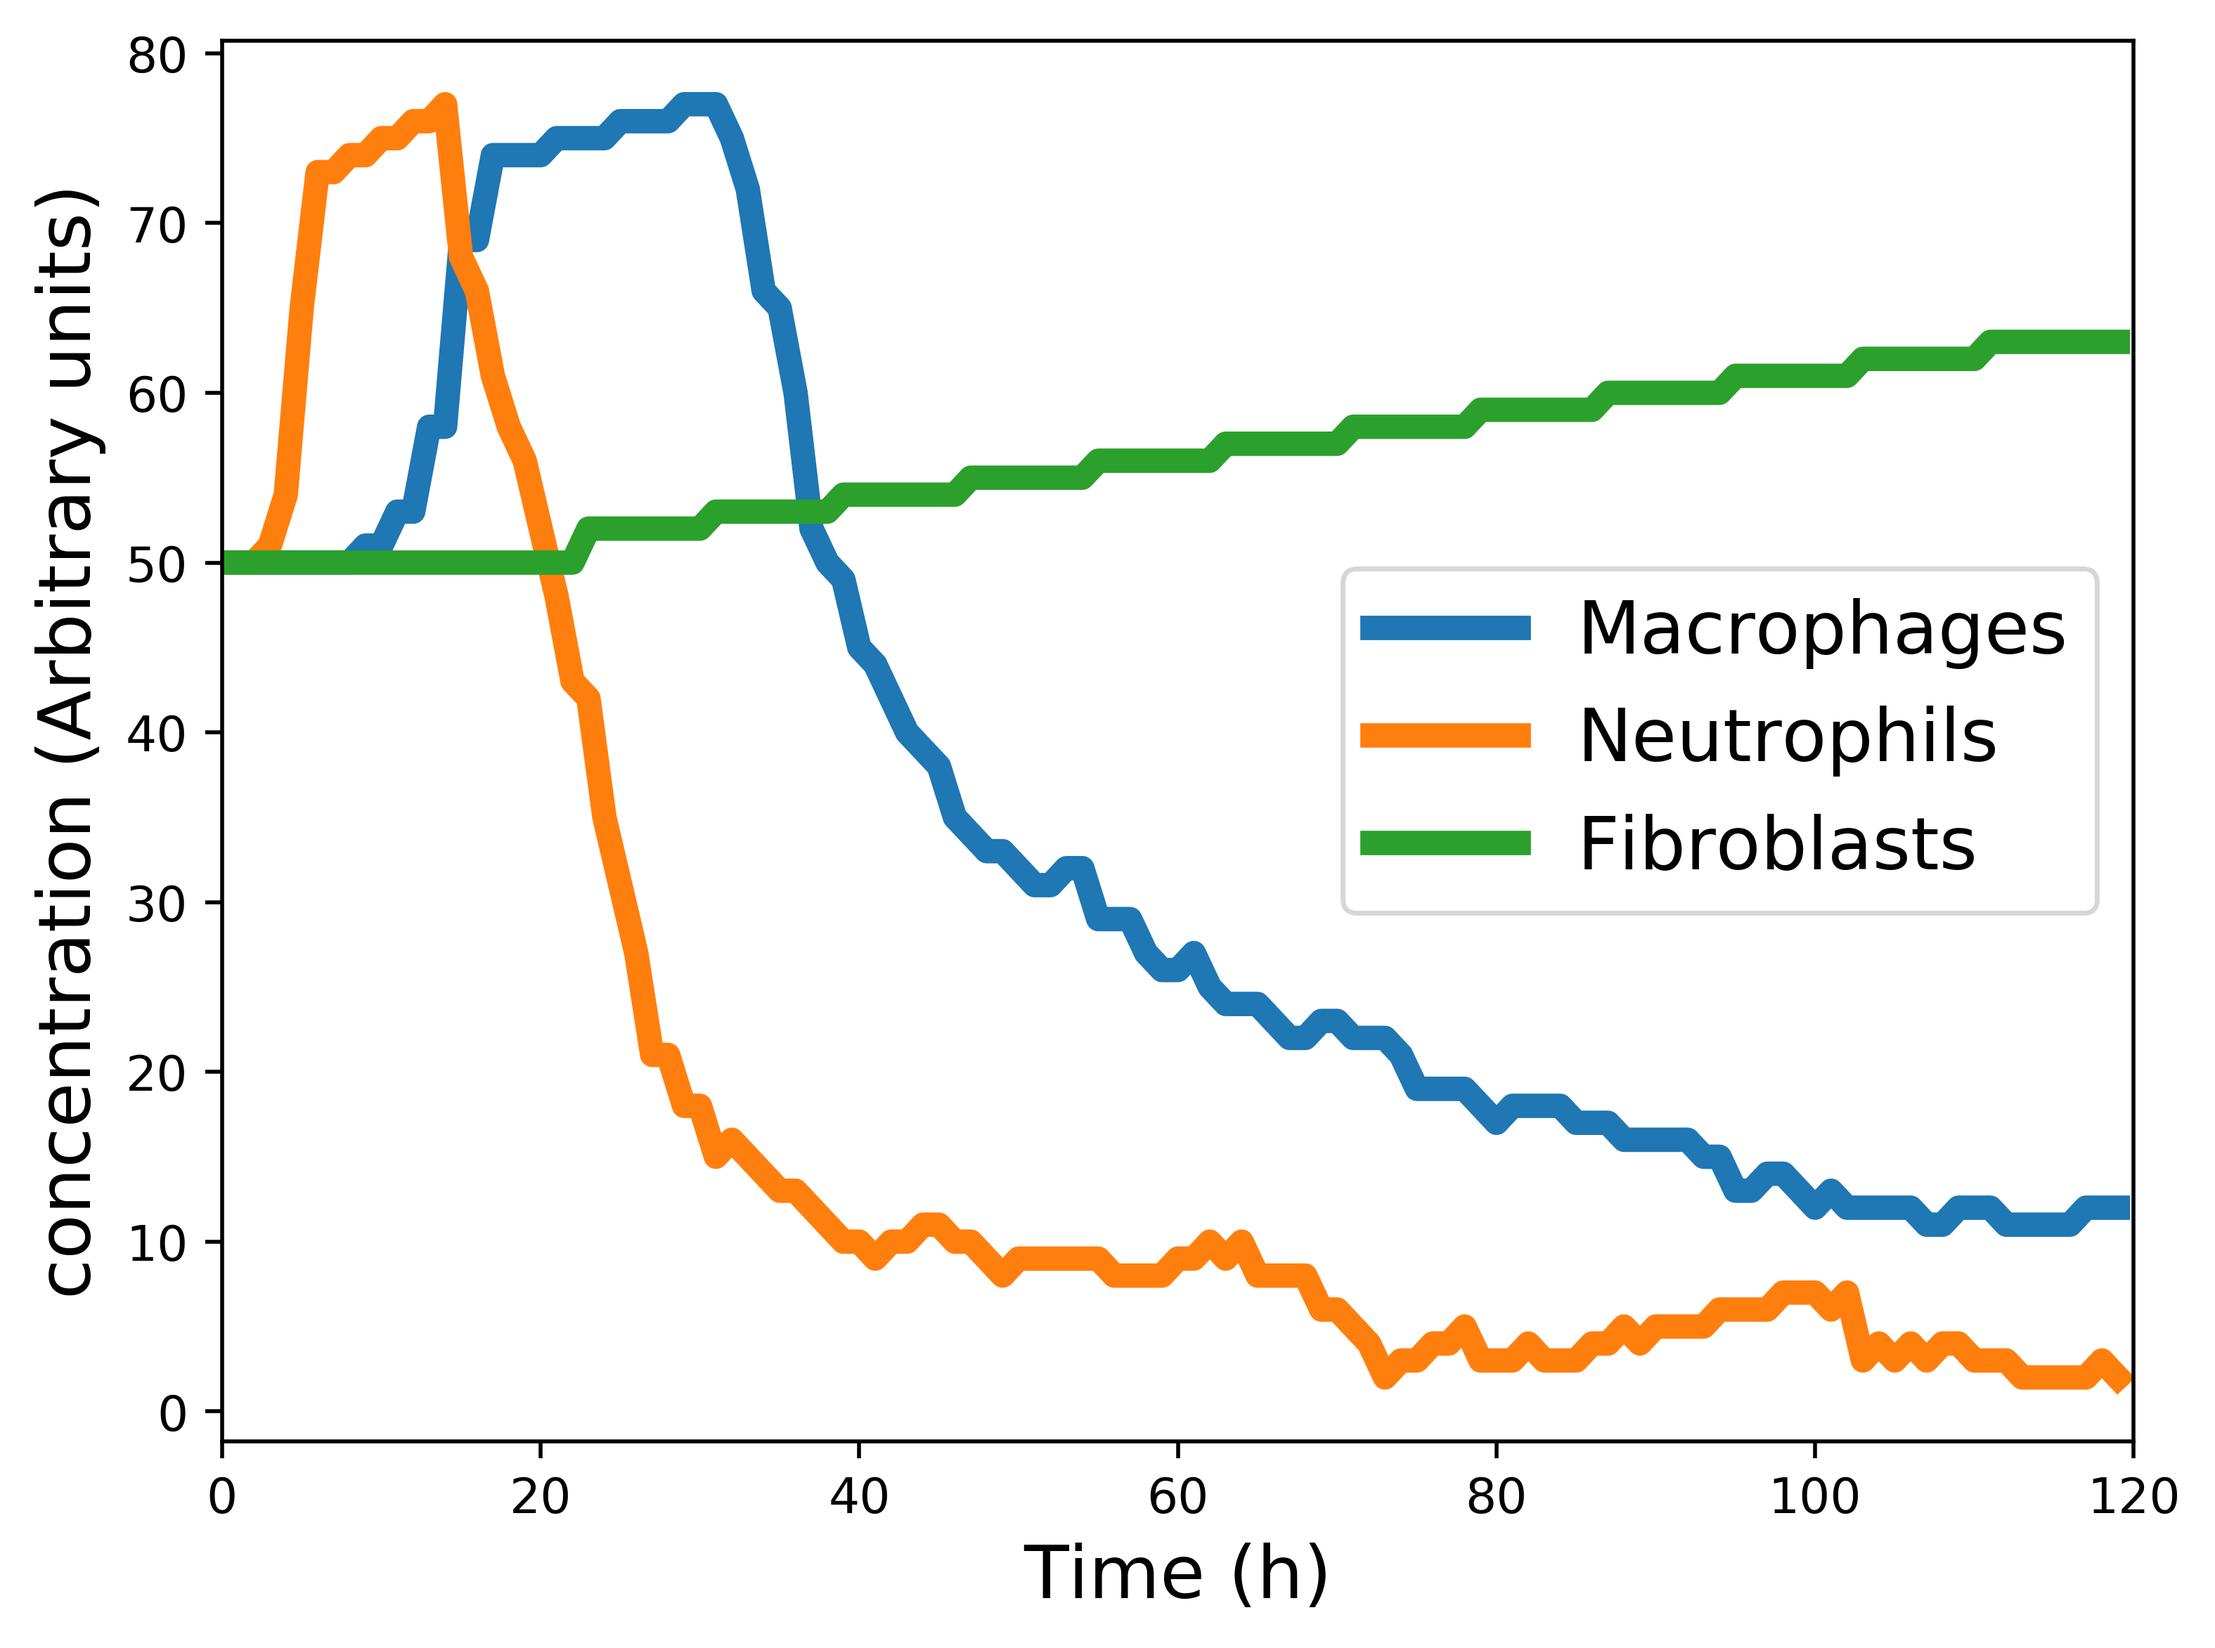
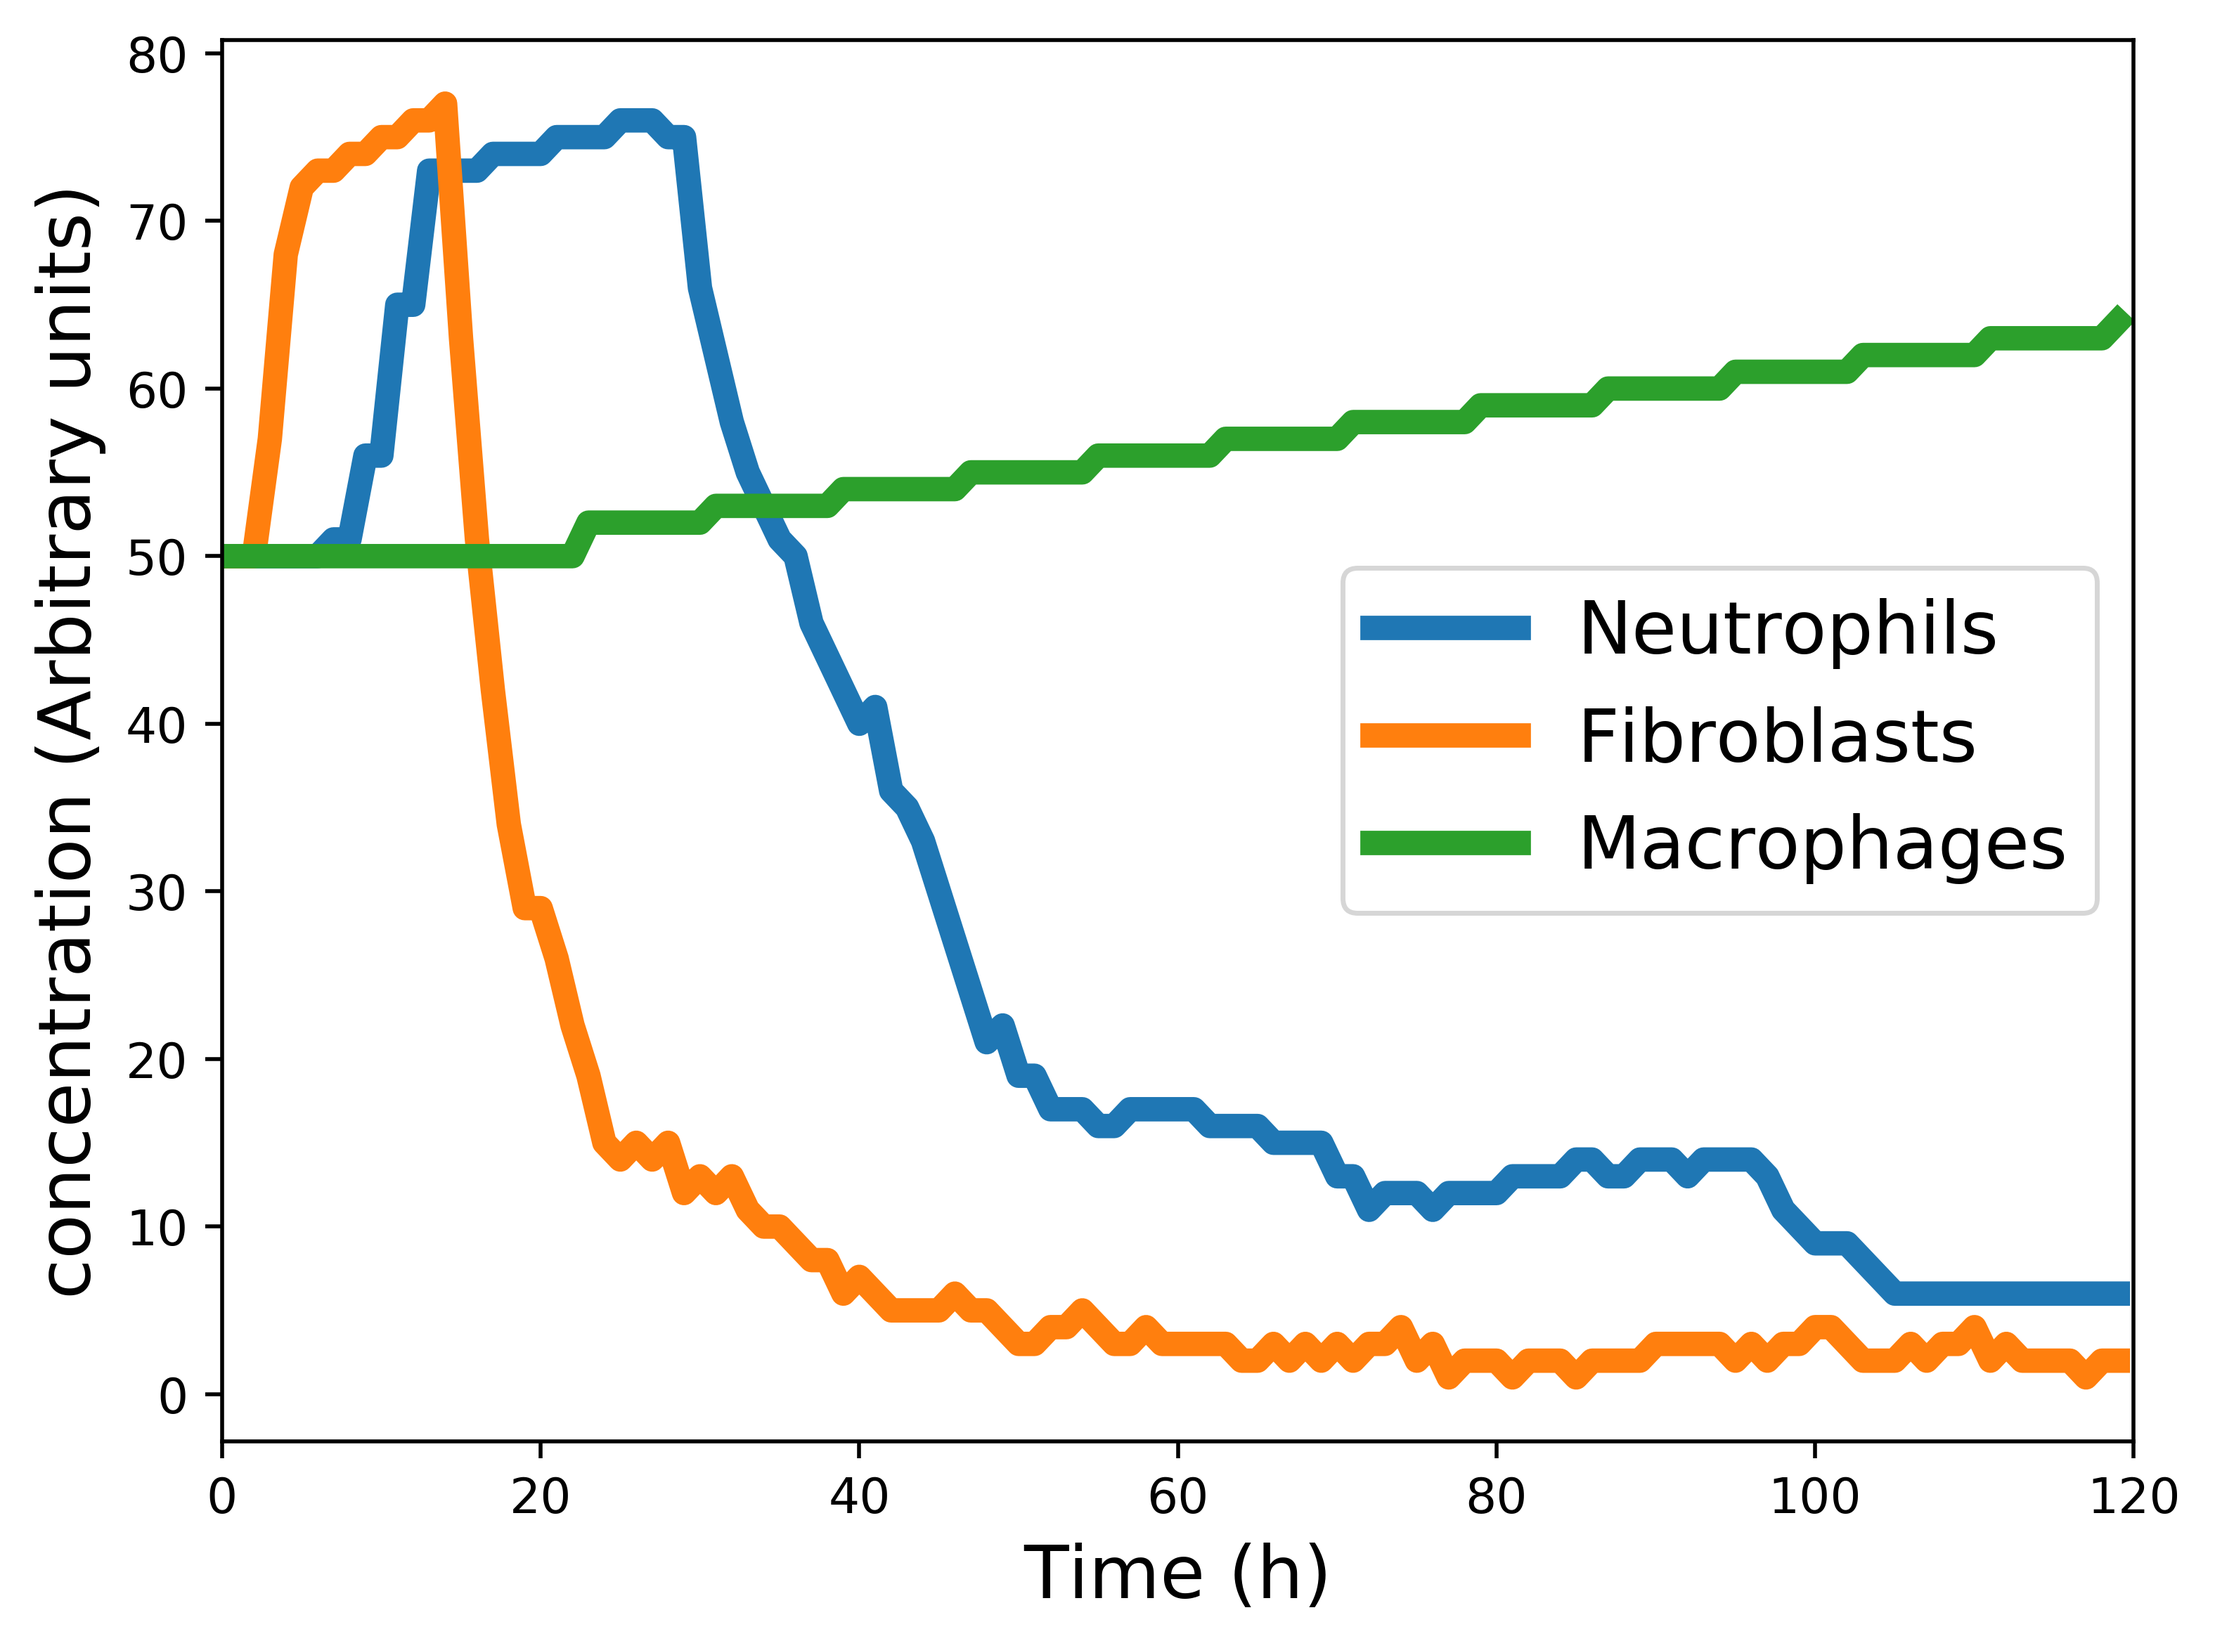
update

diff --git a/ABM/agents.py b/ABM/agents.py
@@ -159,7 +159,7 @@ class Neutrophil(Agent):
                     possible_steps.remove(agent.pos)
                 elif agent.coll >= 100:
                     possible_steps.remove(agent.pos)
-                elif agent.oxy <= 20:
+                elif agent.oxy <= 7:
                     possible_steps.remove(agent.pos)
         new_position = possible_steps
 

diff --git a/ABM/ABM.py b/ABM/ABM.py
@@ -349,4 +349,4 @@ def run_calibration(step_count=120):
     #plt.plot(cell_concentrations["Collagen"], linewidth=lw, ls='-')
 
 
-#run_calibration()
+run_calibration()
